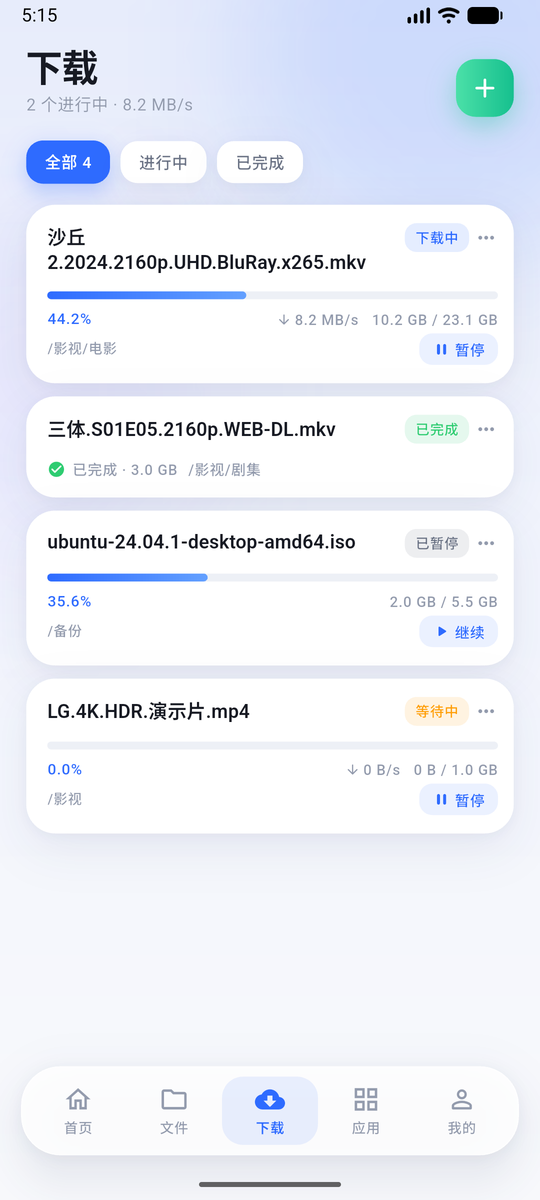
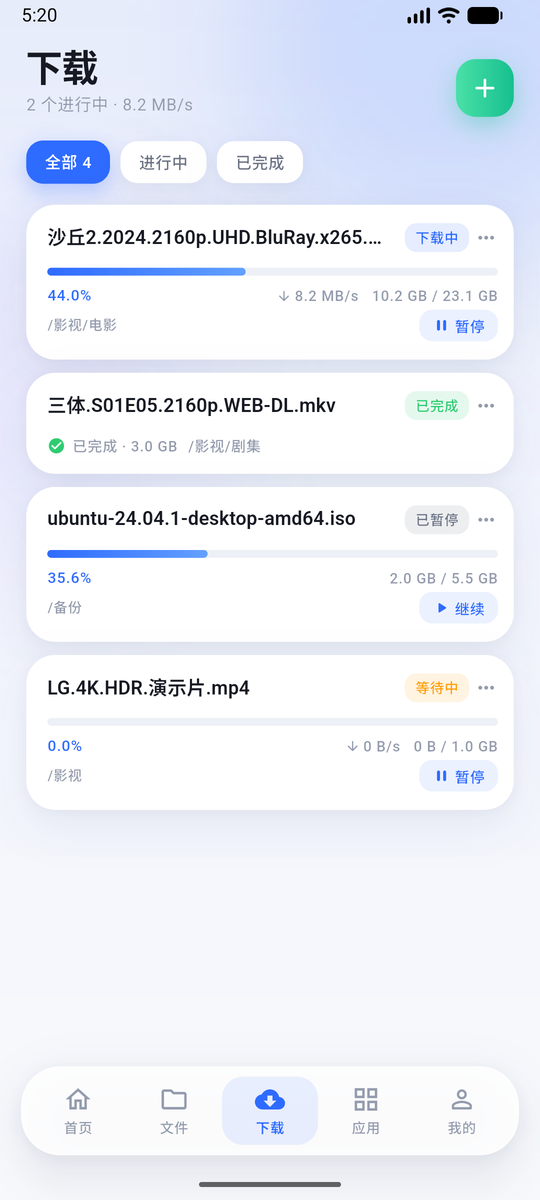
fix: 搜索入口可跳转、通知读取真实存储状态、下载标题单行截断

Changed region(s): [[0.0296, 0.185, 0.9481, 0.6783], [0.0593, 0.0, 0.1185, 0.0308]]

diff --git a/lib/pages/home_page.dart b/lib/pages/home_page.dart
@@ -169,16 +169,44 @@ class _HomePageState extends State<HomePage> with WidgetsBindingObserver {
     showAppSheet(
       context,
       title: '全局搜索',
-      subtitle: '搜索文件、套件与设备设置',
+      subtitle: '选择要搜索的位置',
       children: [
-        const SheetAction(icon: Icons.folder_open_rounded, label: '在文件中搜索', subtitle: '进入文件页使用文件名搜索'),
-        const SheetAction(icon: Icons.apps_rounded, label: '在应用中心搜索', subtitle: '查看已安装套件'),
-        const SheetAction(icon: Icons.settings_rounded, label: '设备设置', subtitle: '存储、网络与电源控制'),
+        SheetAction(
+          icon: Icons.folder_open_rounded,
+          label: '在文件中搜索',
+          subtitle: '进入文件页按文件名搜索',
+          onTap: () {
+            Navigator.pop(context);
+            widget.onOpenTab(1);
+          },
+        ),
+        SheetAction(
+          icon: Icons.apps_rounded,
+          label: '在应用中心搜索',
+          subtitle: '查找已安装的套件',
+          onTap: () {
+            Navigator.pop(context);
+            widget.onOpenTab(3);
+          },
+        ),
+        SheetAction(
+          icon: Icons.settings_rounded,
+          label: '设备设置',
+          subtitle: '存储、网络与电源控制',
+          onTap: () {
+            Navigator.pop(context);
+            widget.onOpenTab(4);
+          },
+        ),
       ],
     );
   }
 
   void _showNotice(BuildContext context) {
+    final storage = context.read<AppState>().storage;
+    final volumes = storage?.volumes ?? const <VolumeInfo>[];
+    final abnormal = volumes.where((v) => v.status.isNotEmpty && v.status != 'normal').toList();
+    final healthy = abnormal.isEmpty;
     showAppSheet(
       context,
       title: '设备消息',
@@ -190,9 +218,20 @@ class _HomePageState extends State<HomePage> with WidgetsBindingObserver {
           color: context.colors.surfaceAlt,
           child: Row(
             children: [
-              Icon(Icons.verified_rounded, size: 20, color: context.colors.success),
+              Icon(
+                healthy ? Icons.verified_rounded : Icons.warning_amber_rounded,
+                size: 20,
+                color: healthy ? context.colors.success : context.colors.warning,
+              ),
               const SizedBox(width: 10),
-              Expanded(child: Text('所有存储空间状态正常，SMART 检测通过。', style: context.texts.bodySmall)),
+              Expanded(
+                child: Text(
+                  healthy
+                      ? (volumes.isEmpty ? '设备已连接，等待读取存储状态。' : '${volumes.length} 个存储空间状态正常，SMART 检测通过。')
+                      : '${abnormal.first.name} 状态异常：${abnormal.first.status}',
+                  style: context.texts.bodySmall,
+                ),
+              ),
             ],
           ),
         ),

diff --git a/lib/pages/downloads_page.dart b/lib/pages/downloads_page.dart
@@ -308,7 +308,7 @@ class _TaskCard extends StatelessWidget {
             crossAxisAlignment: CrossAxisAlignment.start,
             children: [
               Expanded(
-                child: Text(task.title, style: context.texts.titleSmall?.copyWith(fontSize: 14.5, height: 1.35), maxLines: 2, overflow: TextOverflow.ellipsis),
+                child: Text(task.title, style: context.texts.titleSmall?.copyWith(fontSize: 14.5, height: 1.35), maxLines: 1, overflow: TextOverflow.ellipsis),
               ),
               const SizedBox(width: 8),
               Container(
